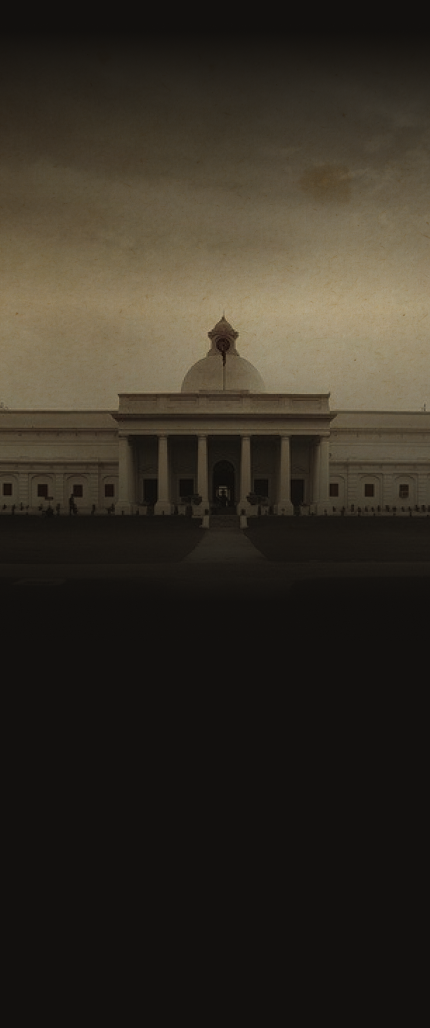
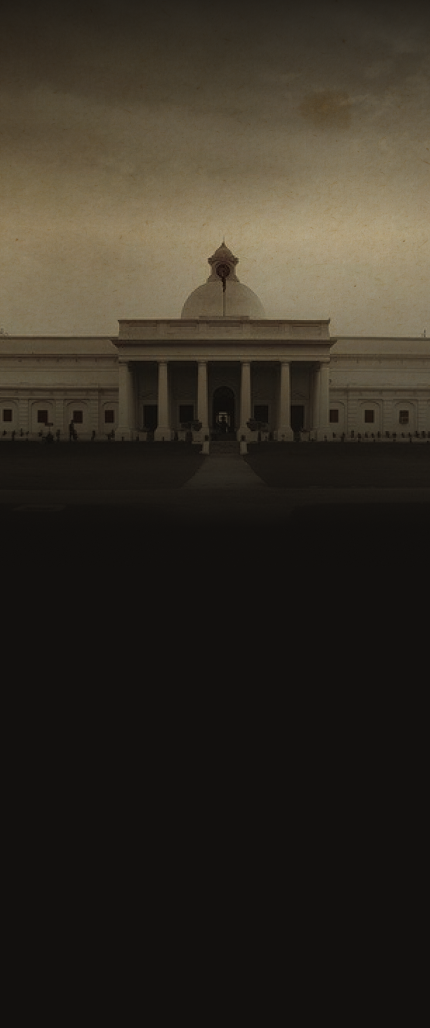
fixed responsive

diff --git a/pages/Register1/SelectIdentity.js b/pages/Register1/SelectIdentity.js
@@ -1,17 +1,22 @@
-import React from 'react'
 import Image from 'next/image'
-import LINK from 'next/link'
+import Link from 'next/Link'
+import React, { useEffect, useState } from 'react';
+import { useMobile, useUpdateMobile } from '../../utils/MobileContext';
 
 const SelectIdentity = () => {
+  const setMobile = useUpdateMobile();
+  useEffect(() => {
+    setMobile();
+  }, []);
+  if (useMobile().isMobile) {
   return (
-    
        <>
-    <div className = 'RegisterContainer'>
+    <div className = 'mobRegisterContainer'>
       <div className="ImageComponent" style={{
         height: '100vh', width: '100vw'
       }}>
         <Image
-        src='/login.png'
+        src='/loginMob.webp'
         layout='fill'
         />
       </div>
@@ -19,8 +24,8 @@ const SelectIdentity = () => {
       <div className ="RegisterHere">
 <div className="RegisterLeft">
   <div className="RegisterForm">
-    <div className='SummitLogo'
-    style={{height: '100px', width: '200px'}}>
+    <div className='eSummitLogo'
+    style={{height: '202px', width: '200px'}}>
       <Image
       src ='/summitLogo.png'
       height={'77'}
@@ -28,14 +33,14 @@ const SelectIdentity = () => {
       />
     </div>
     
-    <h1 className="CreateAccount"> Select your Identity</h1>
+    <h1 className="mobCreateAccount"> Select your Identity</h1>
     <h3 className='CreateAccountsubTitle'>Please select appropriate option.</h3>
-    <div className='RegisterIdentity'>
+    <div className='mobRegisterIdentity'>
 
-    <LINK href='IITRStudentRegister'><button id='RegisterIITRStudent'>As an IITR student</button></LINK>
-    <LINK href='NonIITRStudent'><button> As a Non-IITR student</button></LINK>
-    <LINK href='CampusAmbassador'><button>As a Campus Ambassador</button></LINK>   
-    <LINK href='ProfessionalsRegistration'><button>As a Professional</button></LINK>
+    <Link href='IITRStudentRegister'><button className='mRIbutton'>As an IITR student</button></Link>
+    <Link href='NonIITRStudent'><button className='mRIbutton'> As a Non-IITR student</button></Link>
+    <Link href='CampusAmbassador'><button className='mRIbutton'>As a Campus Ambassador</button></Link>   
+    <Link href='ProfessionalsRegistration'><button className='mRIbutton'>As a Professional</button></Link>
        </div>
        
        
@@ -50,6 +55,55 @@ const SelectIdentity = () => {
     </div>
     </>
   )
+    }else{
+      return (
+    
+        <>
+     <div className = 'RegisterContainer'>
+       <div className="ImageComponent" style={{
+         height: '100vh', width: '100vw'
+       }}>
+         <Image
+         src='/login.png'
+         layout='fill'
+         />
+       </div>
+ 
+       <div className ="RegisterHere">
+ <div className="RegisterLeft">
+   <div className="RegisterForm">
+     <div className='SummitLogo'
+     style={{height: '100px', width: '200px'}}>
+       <Image
+       src ='/summitLogo.png'
+       height={'77'}
+       width={'294'}
+       />
+     </div>
+     
+     <h1 className="CreateAccount"> Select your Identity</h1>
+     <h3 className='CreateAccountsubTitle'>Please select appropriate option.</h3>
+     <div className='RegisterIdentity'>
+ 
+     <Link href='IITRStudentRegister'><button className='mRIbutton'>As an IITR student</button></Link>
+     <Link href='NonIITRStudent'><button className='mRIbutton'> As a Non-IITR student</button></Link>
+     <Link href='CampusAmbassador'><button className='mRIbutton'>As a Campus Ambassador</button></Link>   
+     <Link href='ProfessionalsRegistration'><button className='mRIbutton'>As a Professional</button></Link>
+        </div>
+        
+        
+     </div>
+     <div className='RegisterRight'>
+    
+     </div>
+ 
+ 
+     </div>
+     </div>
+     </div>
+     </>
+   )
+    }
 }
 
 export default SelectIdentity

diff --git a/styles/Register1.scss b/styles/Register1.scss
@@ -1,7 +1,7 @@
 .RegisterContainer {
-  height: 100vh;
   width: 100vw;
   position: relative;
+  height: 100vh;
  
 }
 .mobRegisterContainer {
@@ -14,9 +14,11 @@
   margin-top: -90vh;
   display: flex;
   flex-direction: row;
-
 }
 
+.eSummitLogo{
+  margin-right: 15px;
+}
 
 .RegisterHereMob{
   position: relative;
@@ -40,12 +42,22 @@
   color: #dcd1ad;
  margin-top: 10px;
 }
+.mobCreateAccount {
+  font-family: 'Lexend',sans-serif;
+  font-style: normal;
+  font-weight: 600;
+  font-size: 28px;
+  line-height: 35.2px;
+  color: #dcd1ad;
+ margin-top: 10px;
+}
 .CreateAccountsubTitle {
   font-family: Nunito Sans;
   font-size: 16px;
   font-weight: 400px;
   line-height: 20.8px;
   color: #bdbdbd;
+  margin-bottom: 52px;
 }
 .FormInputs {
   display: flex;
@@ -99,6 +111,7 @@
 .RegisterIdentity {
 display: flex;
 flex-direction: column;
+gap:30px;
 div {
   border: 1px transparent solid;
   padding: 20px,64px;
@@ -118,7 +131,30 @@ line-height: 110%;
 }
 
 }
-#RegisterIITRStudent{
+.mobRegisterIdentity {
+display: flex;
+flex-direction: column;
+gap:20px;
+div {
+  border: 1px transparent solid;
+  padding: 20px,64px;
+}
+
+
+}
+.mRIbutton {
+height: 62px;
+width:280px;
+background-color: #BA6D39;
+border-radius: 34px;
+font-family: lexend,sans-serif;
+font-weight: 700;
+color: white;
+letter-spacing: 1px;
+line-height: 110%;
+
+}
+.mRIbutton:hover{
   background-color: #DCD1AD;
   color: #12100E;
 }
@@ -154,7 +190,4 @@ line-height: 110%;
       width:100vw;
     }
 
-    .RegisterIdentity button{
-      width:280px;
-    }
 }

diff --git a/pages/_app.js b/pages/_app.js
@@ -2,6 +2,7 @@ import '../styles/globals.css';
 import '../styles/index.scss';
 import 'bootstrap/dist/css/bootstrap.min.css';
 import Registration from './Register'
+import Sident from './Register1/SelectIdentity'
 import Login from './login'
 import Footer from '../Components/Footer/Footer';
 import Navbar from '../Components/Navbar';
@@ -11,9 +12,10 @@ function MyApp({ Component, pageProps }) {
   return (
     <>
       <MobileProvider>
-        <Registration/>
+        <Sident/>
+        {/* <Registration/> */}
         {/* <Login/> */}
-        <Component {...pageProps} /> 
+        <Component {...pageProps}/> 
       </MobileProvider>
     </>
   );

diff --git a/pages/Register.js b/pages/Register.js
@@ -4,8 +4,8 @@ import { useMobile, useUpdateMobile } from '../utils/MobileContext';
 import LINK from 'next/link';
 
 const Register = () => {
-  const setMobile = useUpdateMobile();
   const [Email, setEmail] = useState(' ');
+  const setMobile = useUpdateMobile();
   useEffect(() => {
     setMobile();
   }, []);
